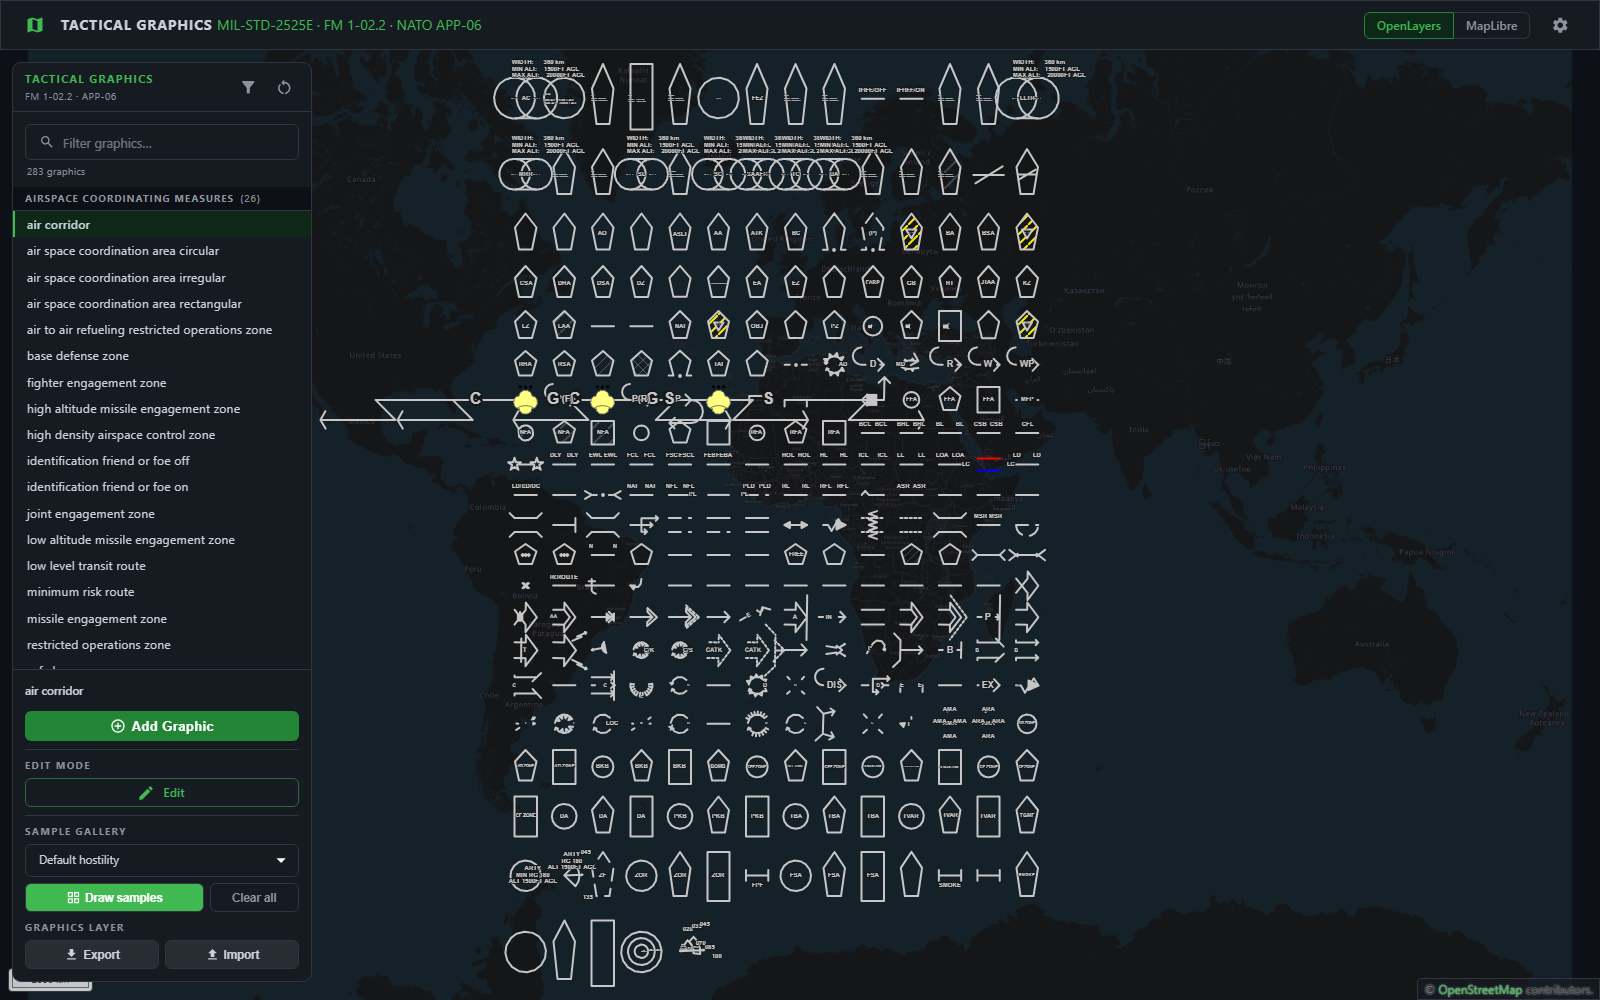
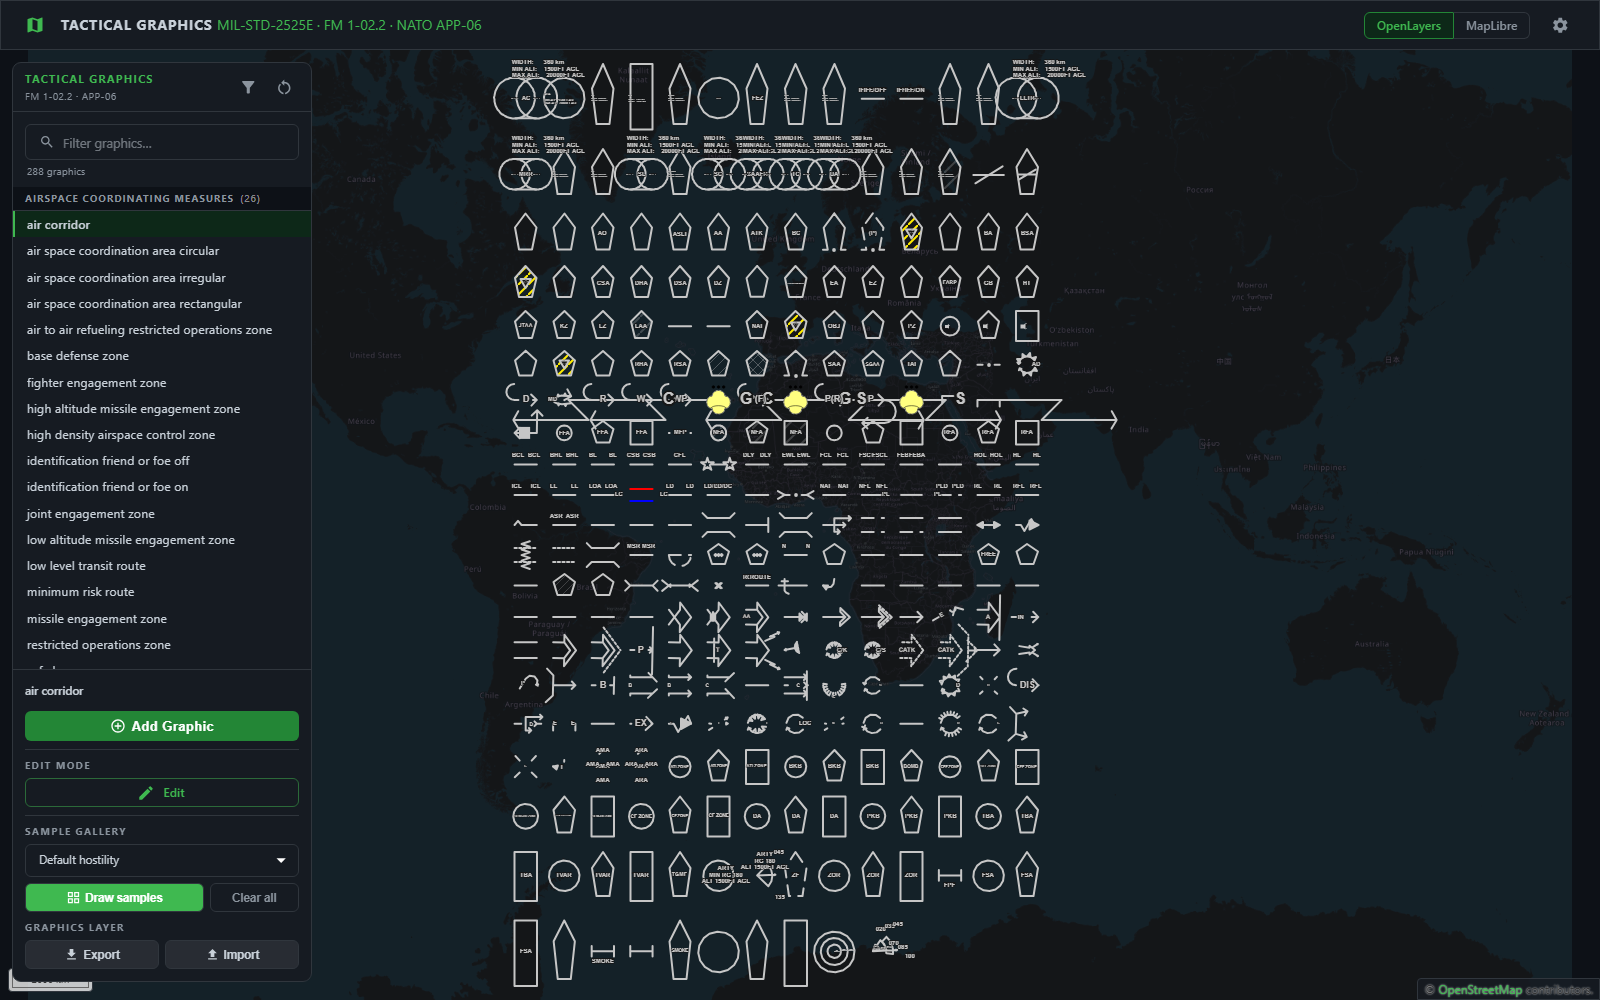
Give the five new graphics tracker rows
Submarine action area, submarine-generated action area and the three
toxic-industrial-material subtypes, marked `In UI` = Y and `N` on both shape and
edit handles: they are drawable and paintable, and nobody has reviewed them on
screen against their plate yet. So they belong in *Upcoming* until someone does.

Without a row a new graphic is in no README table and in no sample gallery, while
`gen-readme-graphics-table.py --check` still reports the tables up to date — which
is the quiet way a graphic gets built and then forgotten.

The README's two tables, `provenGraphics.ts` and the gallery image are the
generators' output from that: 230 supported / 243 variants, 64 upcoming. Bridgehead
and extraction zone move into *Supported* with them — those two are the
maintainer's own sign-off, saved into the workbook while this branch was in
progress.

Changed region(s): [[0.3125, 0.31, 0.6562, 0.992], [0.625, 0.217, 0.6562, 0.248], [0.2188, 0.403, 0.25, 0.434]]

diff --git a/src/components/openlayers/provenGraphics.ts b/src/components/openlayers/provenGraphics.ts
@@ -45,6 +45,7 @@ export const PROVEN_GRAPHICS: TacticalGraphicName[] = [
     TacticalGraphicName.Boundary,
     TacticalGraphicName.Breach,
     TacticalGraphicName.Bridge,
+    TacticalGraphicName.Bridgehead,
     TacticalGraphicName.BridgeheadLine,
     TacticalGraphicName.BrigadeSupportArea,
     TacticalGraphicName.Bypass,
@@ -91,6 +92,7 @@ export const PROVEN_GRAPHICS: TacticalGraphicName[] = [
     TacticalGraphicName.ExplosivesPlannedStateOfReadiness,
     TacticalGraphicName.ExplosivesStateOfReadiness1Safe,
     TacticalGraphicName.ExplosivesStateOfReadiness2ArmedButPassable,
+    TacticalGraphicName.ExtractionZone,
     TacticalGraphicName.FerryCrossing,
     TacticalGraphicName.FieldsOfFire,
     TacticalGraphicName.FightingPosition,
